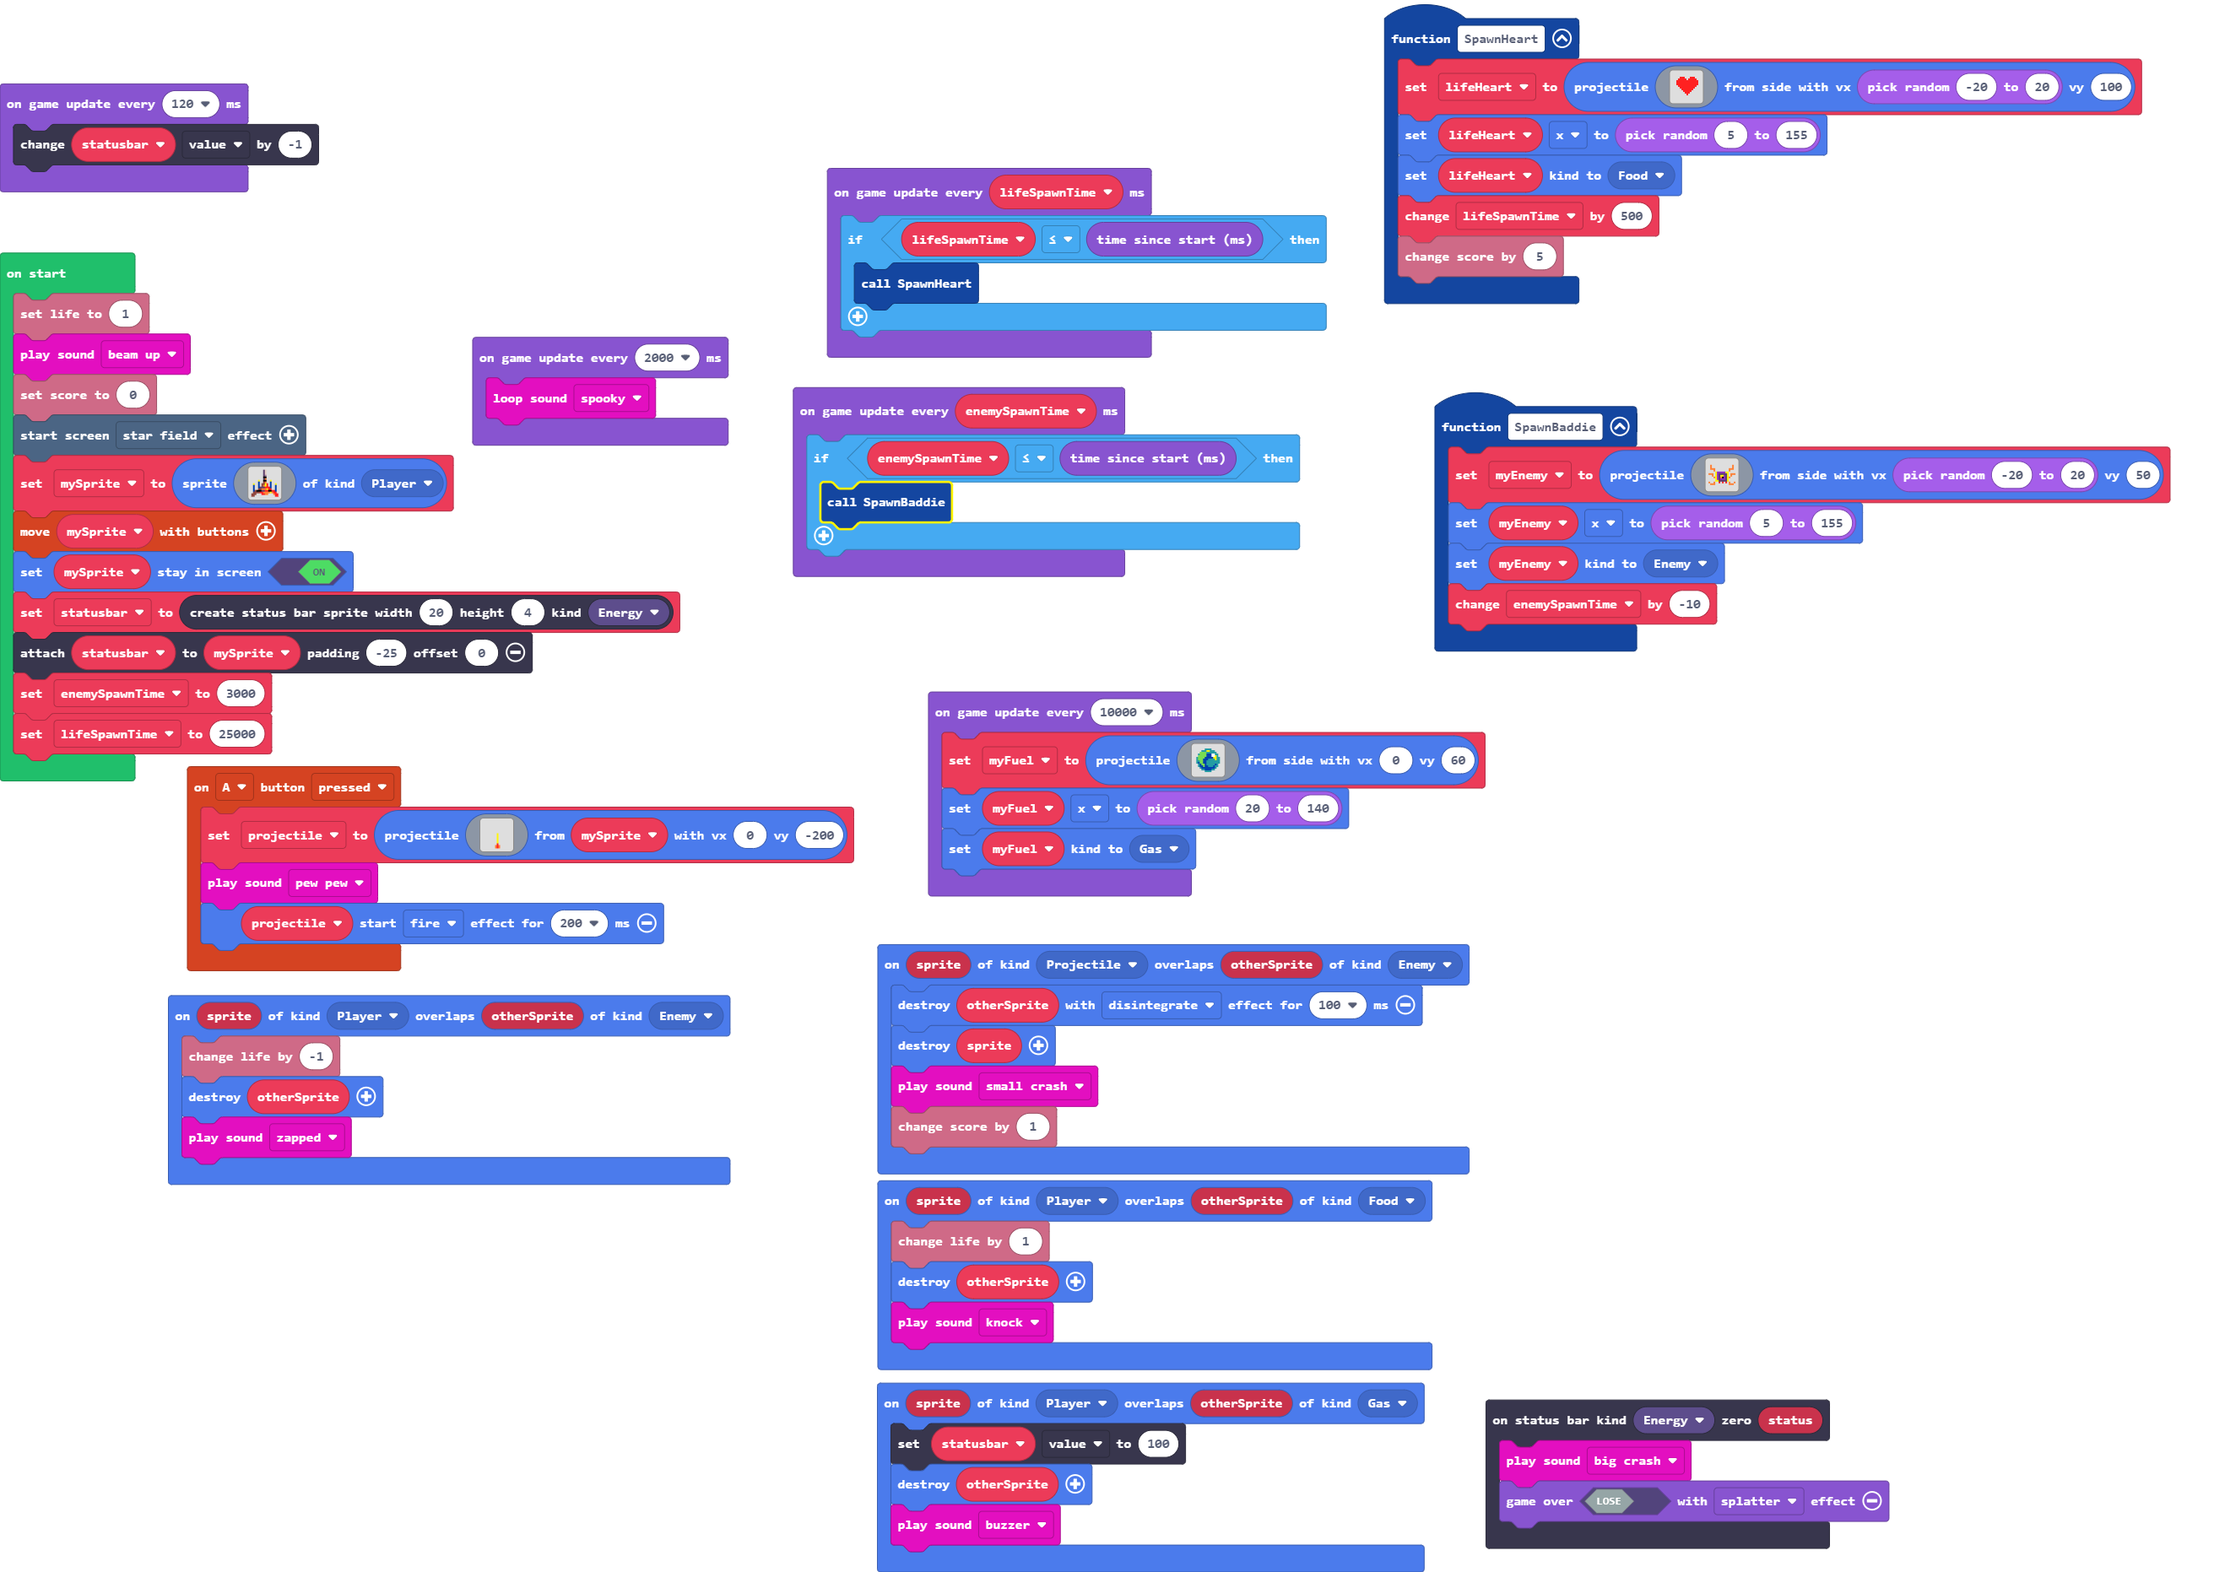
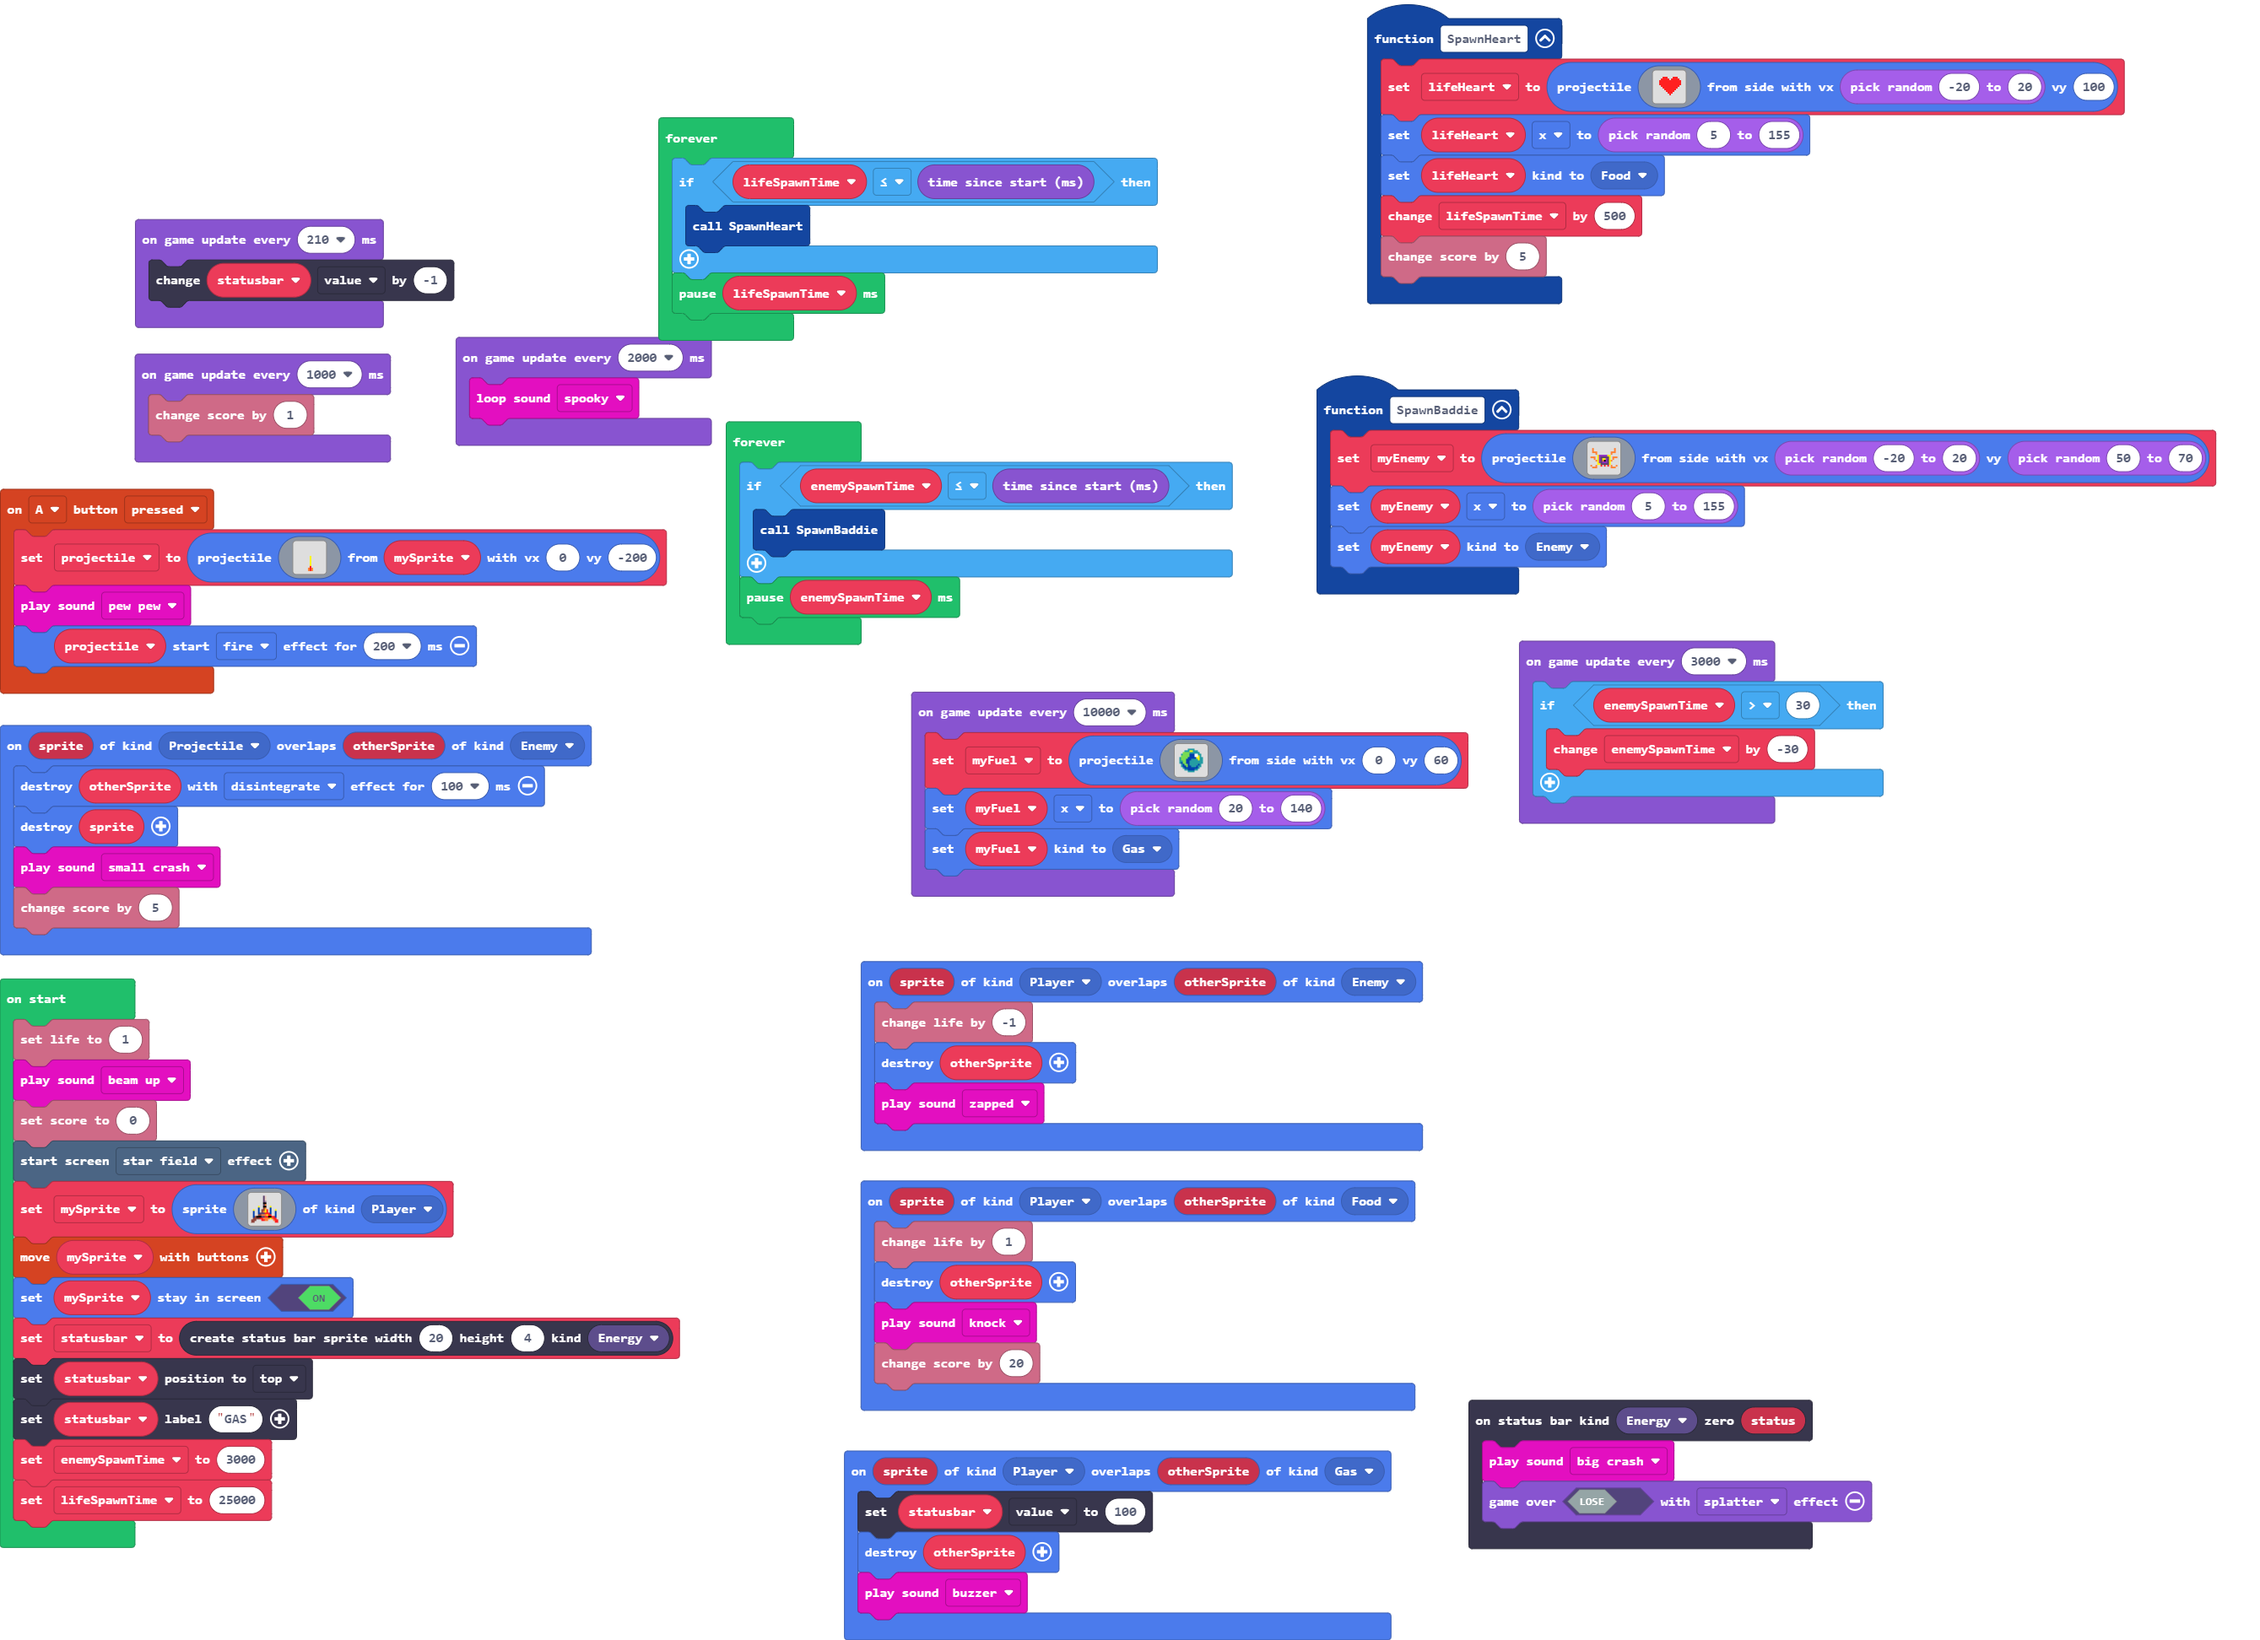
Add Combined Timer / Score, Fixed Spawn Rate Issues

diff --git a/main.ts b/main.ts
@@ -41,10 +41,9 @@ function SpawnBaddie () {
         . 4 4 4 . . . . . . . . 4 4 4 . 
         . . . . . . . . . . . . . . . . 
         . . . . . . . . . . . . . . . . 
-        `, randint(-20, 20), 50)
+        `, randint(-20, 20), randint(50, 70))
     myEnemy.x = randint(5, 155)
     myEnemy.setKind(SpriteKind.Enemy)
-    enemySpawnTime += -10
 }
 function SpawnHeart () {
     lifeHeart = sprites.createProjectileFromSide(img`
@@ -79,6 +78,7 @@ sprites.onOverlap(SpriteKind.Player, SpriteKind.Food, function (sprite, otherSpr
     info.changeLifeBy(1)
     otherSprite.destroy()
     music.knock.play()
+    info.changeScoreBy(20)
 })
 statusbars.onZero(StatusBarKind.Energy, function (status) {
     music.bigCrash.play()
@@ -88,7 +88,7 @@ sprites.onOverlap(SpriteKind.Projectile, SpriteKind.Enemy, function (sprite, oth
     otherSprite.destroy(effects.disintegrate, 100)
     sprite.destroy()
     music.smallCrash.play()
-    info.changeScoreBy(1)
+    info.changeScoreBy(5)
 })
 sprites.onOverlap(SpriteKind.Player, SpriteKind.Enemy, function (sprite, otherSprite) {
     info.changeLifeBy(-1)
@@ -126,21 +126,35 @@ mySprite = sprites.create(img`
 controller.moveSprite(mySprite)
 mySprite.setStayInScreen(true)
 statusbar = statusbars.create(20, 4, StatusBarKind.Energy)
-statusbar.attachToSprite(mySprite, -25, 0)
+statusbar.positionDirection(CollisionDirection.Top)
+statusbar.setLabel("GAS")
 let enemySpawnTime = 3000
 let lifeSpawnTime = 25000
-game.onUpdateInterval(enemySpawnTime, function () {
-    if (enemySpawnTime <= game.runtime()) {
-        SpawnBaddie()
-    }
-})
-game.onUpdateInterval(lifeSpawnTime, function () {
-    if (lifeSpawnTime <= game.runtime()) {
-        SpawnHeart()
-    }
+game.onUpdateInterval(210, function () {
+    statusbar.value += -1
 })
 game.onUpdateInterval(2000, function () {
     music.spooky.loop()
+})
+game.onUpdateInterval(1000, function () {
+    info.changeScoreBy(1)
+})
+forever(function () {
+    if (lifeSpawnTime <= game.runtime()) {
+        SpawnHeart()
+    }
+    pause(lifeSpawnTime)
+})
+forever(function () {
+    if (enemySpawnTime <= game.runtime()) {
+        SpawnBaddie()
+    }
+    pause(enemySpawnTime)
+})
+game.onUpdateInterval(3000, function () {
+    if (enemySpawnTime > 30) {
+        enemySpawnTime += -30
+    }
 })
 game.onUpdateInterval(10000, function () {
     myFuel = sprites.createProjectileFromSide(img`
@@ -163,7 +177,4 @@ game.onUpdateInterval(10000, function () {
         `, 0, 60)
     myFuel.x = randint(20, 140)
     myFuel.setKind(SpriteKind.Gas)
-})
-game.onUpdateInterval(120, function () {
-    statusbar.value += -1
 })
